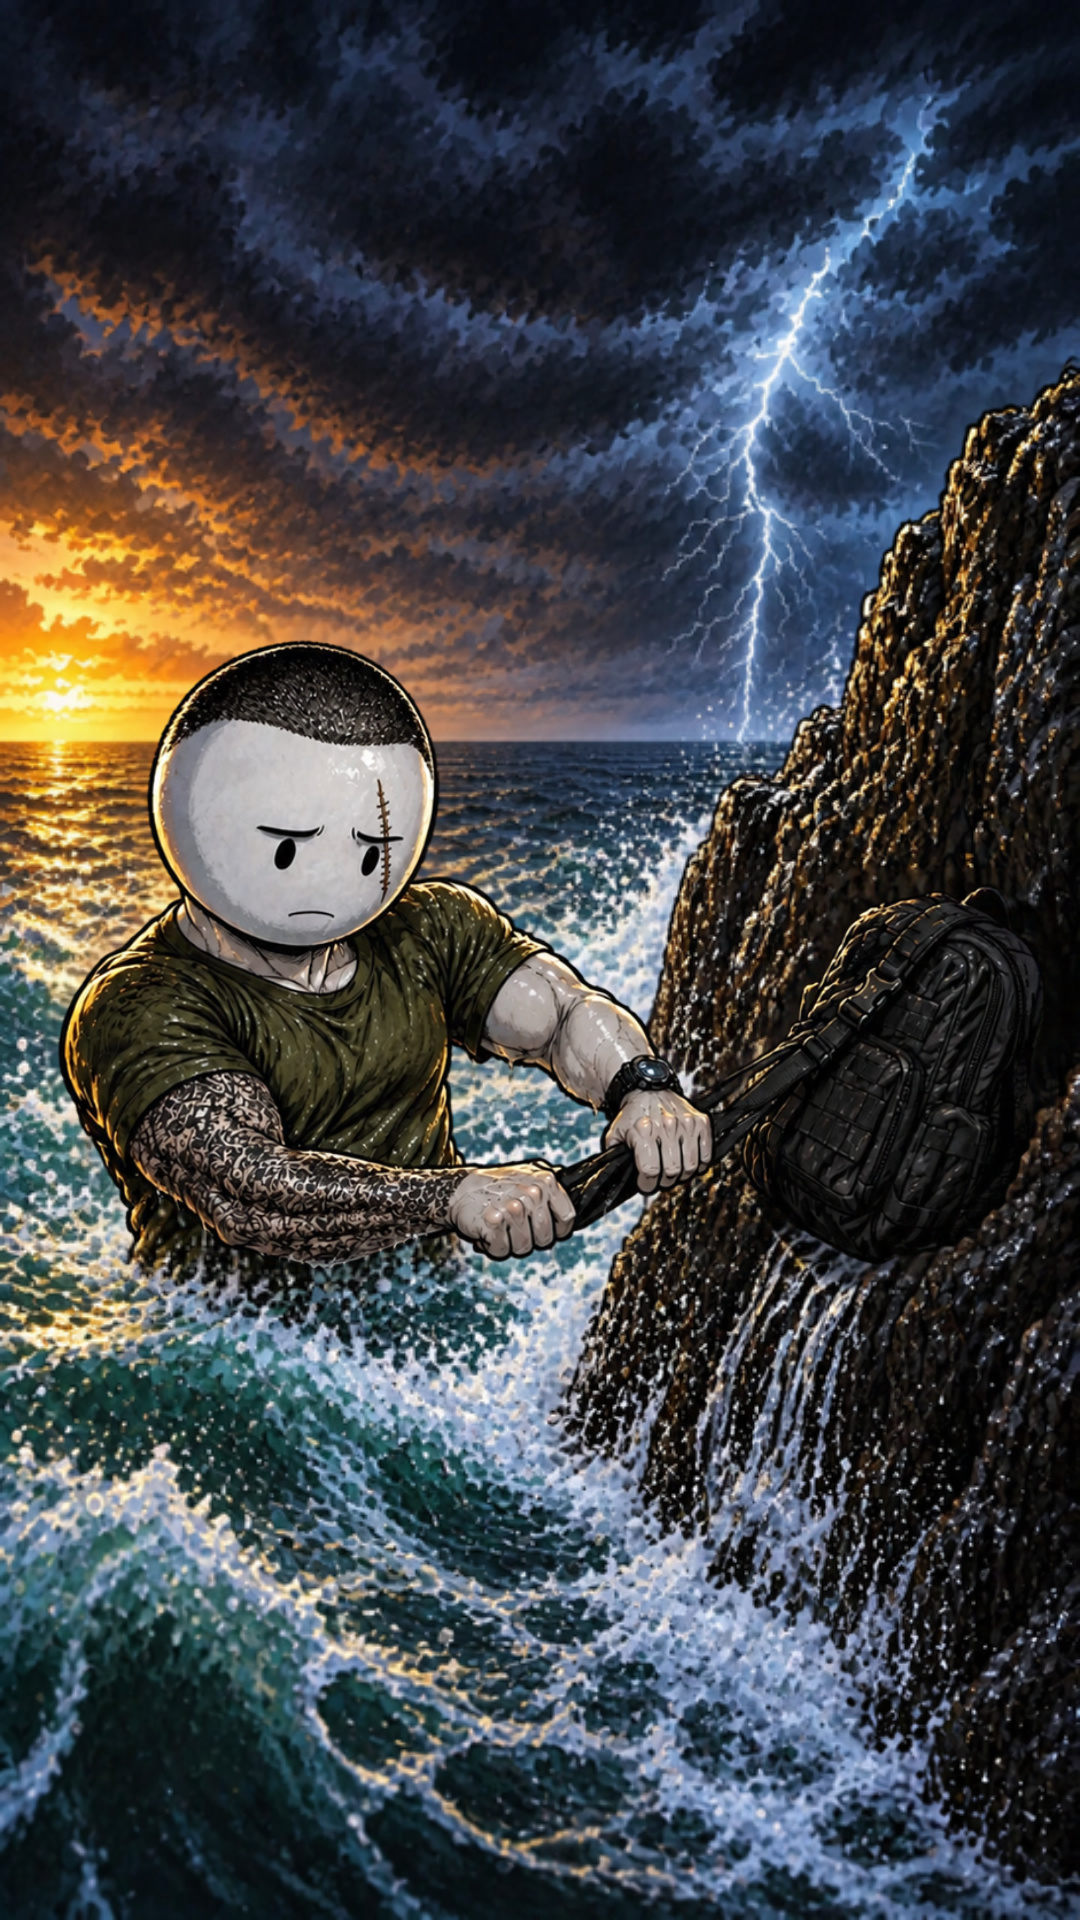
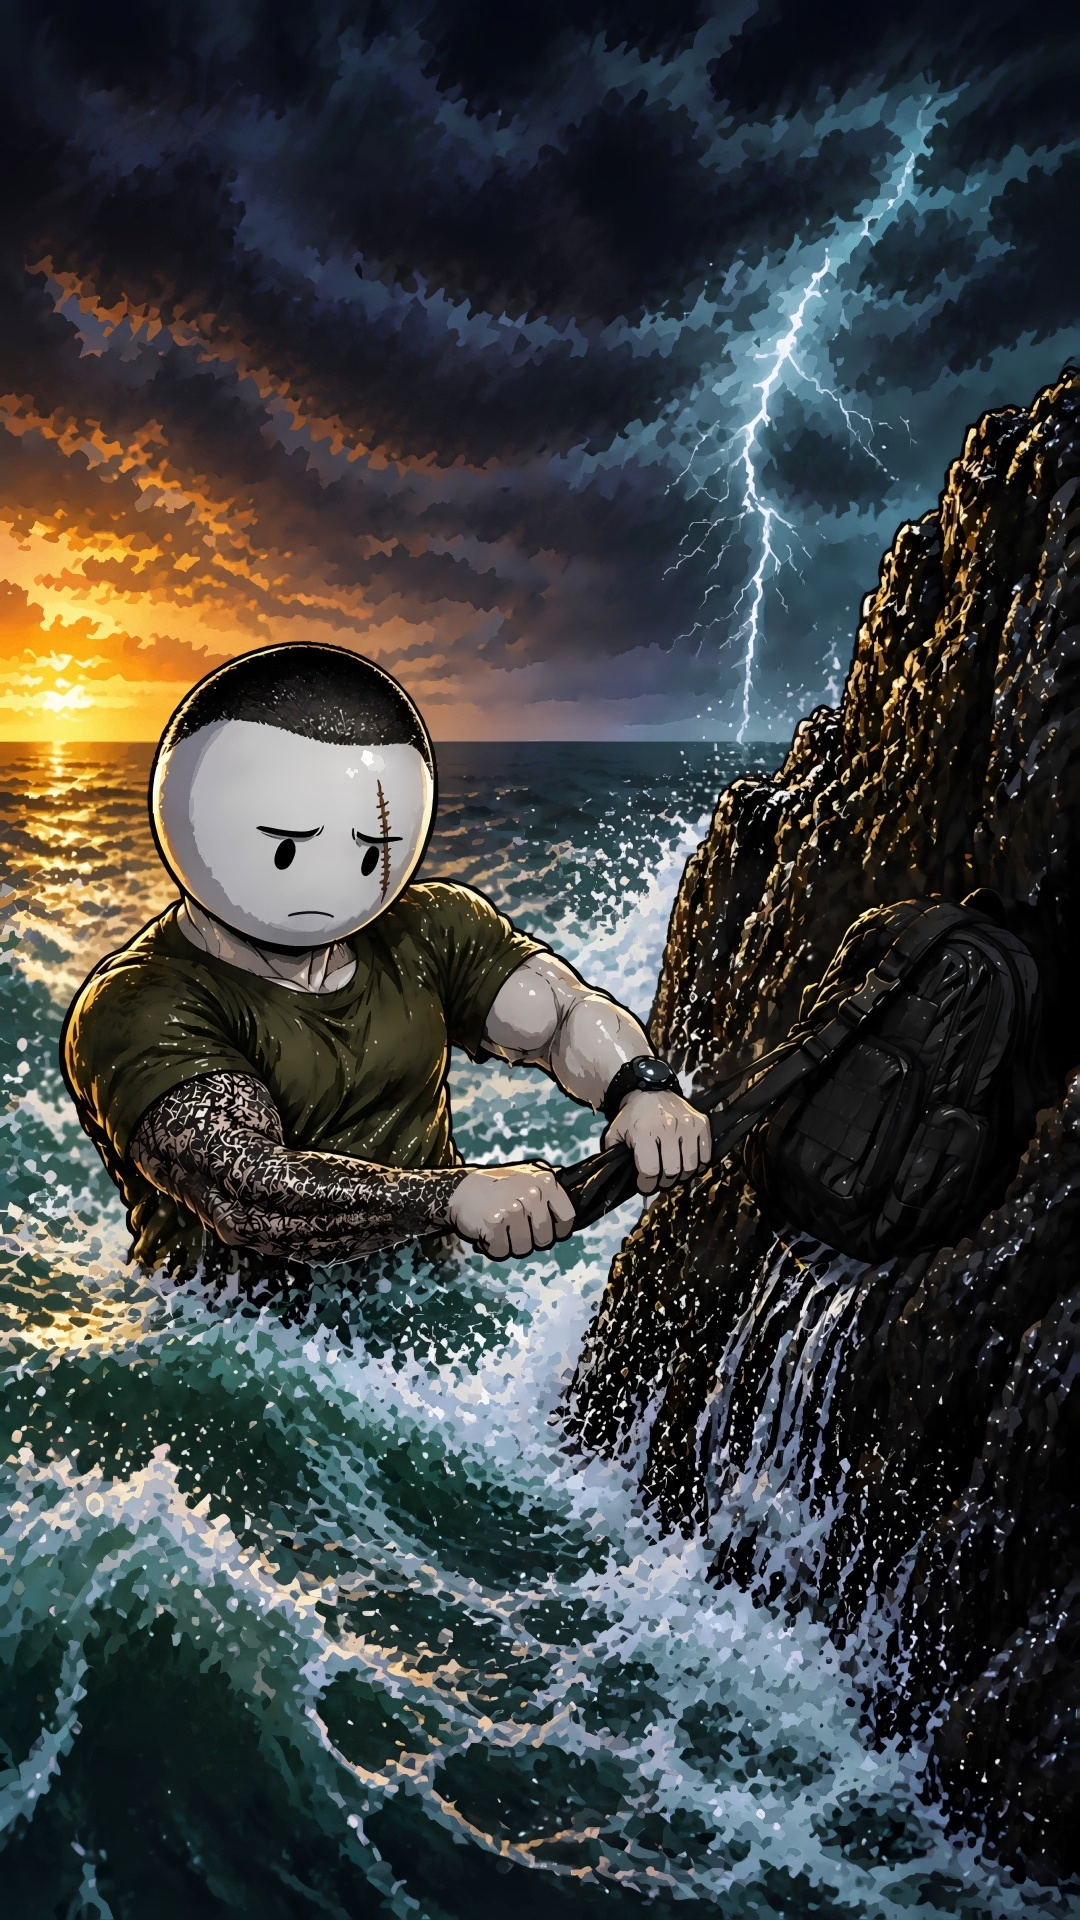
ADA 9: 13a ve 14a temizlendi (Real-ESRGAN + düz boyama + 08 deniz rengi), karakter değişmedi
Claude-Session: https://claude.ai/code/session_014JxJGGMAcsX945kBrKhihb

diff --git a/hikaye-video/projeler/ada9/hd-temizle.py b/hikaye-video/projeler/ada9/hd-temizle.py
@@ -1,0 +1,23 @@
+#!/usr/bin/env python3
+"""Pikselli/bloklu tek bir görseli temizler: önce hafifçe küçültür (blokları eritir), Real-ESRGAN anime modeliyle 4 kat büyütür
+(çizgiler netleşir, gürültü gider), 1080x1920'ye indirir. Karakter ve kompozisyon değişmez.
+Kullanım: ~/.venvs/video/bin/python hd-temizle.py <giris.jpg> <cikti.jpg> [on_olcek=0.62]"""
+import os, sys, cv2, numpy as np, torch, spandrel
+torch.set_num_threads(os.cpu_count() or 4)
+model = spandrel.ModelLoader().load_from_file(os.path.expanduser('~/.cache/esrgan/RealESRGAN_x4plus_anime_6B.pth')).eval()
+im = cv2.imread(sys.argv[1]); H, W = im.shape[:2]; on = float(sys.argv[3]) if len(sys.argv) > 3 else 0.62
+small = cv2.resize(im, None, fx=on, fy=on, interpolation=cv2.INTER_AREA)
+small = cv2.bilateralFilter(small, 5, 28, 5)
+h, w = small.shape[:2]; T, P = 192, 16
+x = torch.from_numpy(cv2.cvtColor(small, cv2.COLOR_BGR2RGB)).permute(2, 0, 1).float().div(255)[None]
+out = torch.zeros(1, 3, h * 4, w * 4)
+with torch.no_grad():
+    for y0 in range(0, h, T):
+        for x0 in range(0, w, T):
+            ya, xa = max(0, y0 - P), max(0, x0 - P); yb, xb = min(h, y0 + T + P), min(w, x0 + T + P)
+            o = model(x[:, :, ya:yb, xa:xb])
+            cy, cx = (y0 - ya) * 4, (x0 - xa) * 4; hh, ww = min(T, h - y0) * 4, min(T, w - x0) * 4
+            out[:, :, y0 * 4:y0 * 4 + hh, x0 * 4:x0 * 4 + ww] = o[:, :, cy:cy + hh, cx:cx + ww]
+res = (out[0].clamp(0, 1).permute(1, 2, 0).numpy() * 255).astype(np.uint8)
+res = cv2.resize(cv2.cvtColor(res, cv2.COLOR_RGB2BGR), (W, H), interpolation=cv2.INTER_AREA)
+cv2.imwrite(sys.argv[2], res, [cv2.IMWRITE_JPEG_QUALITY, 95]); print('tamam', sys.argv[2])

diff --git a/hikaye-video/projeler/ada9/sadelestir.py b/hikaye-video/projeler/ada9/sadelestir.py
@@ -1,0 +1,10 @@
+#!/usr/bin/env python3
+"""ESRGAN çıktısını (hd-temizle.py) düz boyalı çizgi roman görünümüne getirir: mean-shift düzleştirme + koyu çizgileri geri ver.
+Kullanım: python3 sadelestir.py <hd.jpg> <cikti.jpg>"""
+import sys, cv2, numpy as np
+b = cv2.imread(sys.argv[1])
+ms = cv2.pyrMeanShiftFiltering(b, sp=9, sr=20, maxLevel=2)
+g = cv2.cvtColor(b, cv2.COLOR_BGR2GRAY)
+dark = cv2.GaussianBlur((g < 45).astype(np.float32), (0, 0), 0.8)[..., None]
+out = ms.astype(np.float32) * (1 - dark * 0.6) + b.astype(np.float32) * dark * 0.6
+cv2.imwrite(sys.argv[2], np.clip(out, 0, 255).astype(np.uint8), [cv2.IMWRITE_JPEG_QUALITY, 95]); print('tamam')
